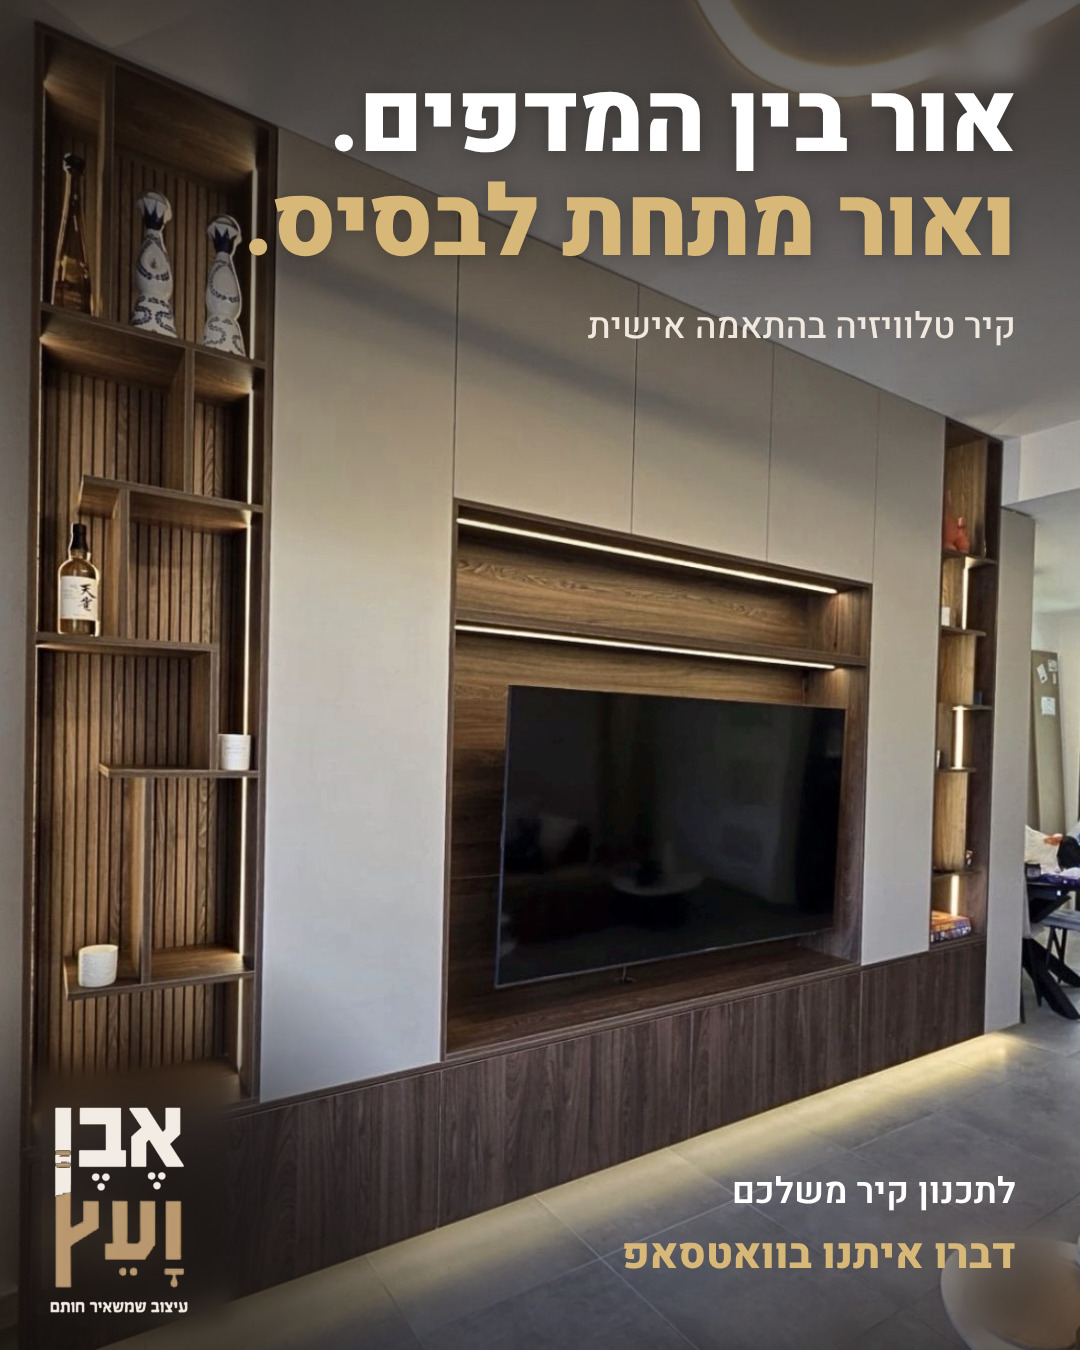
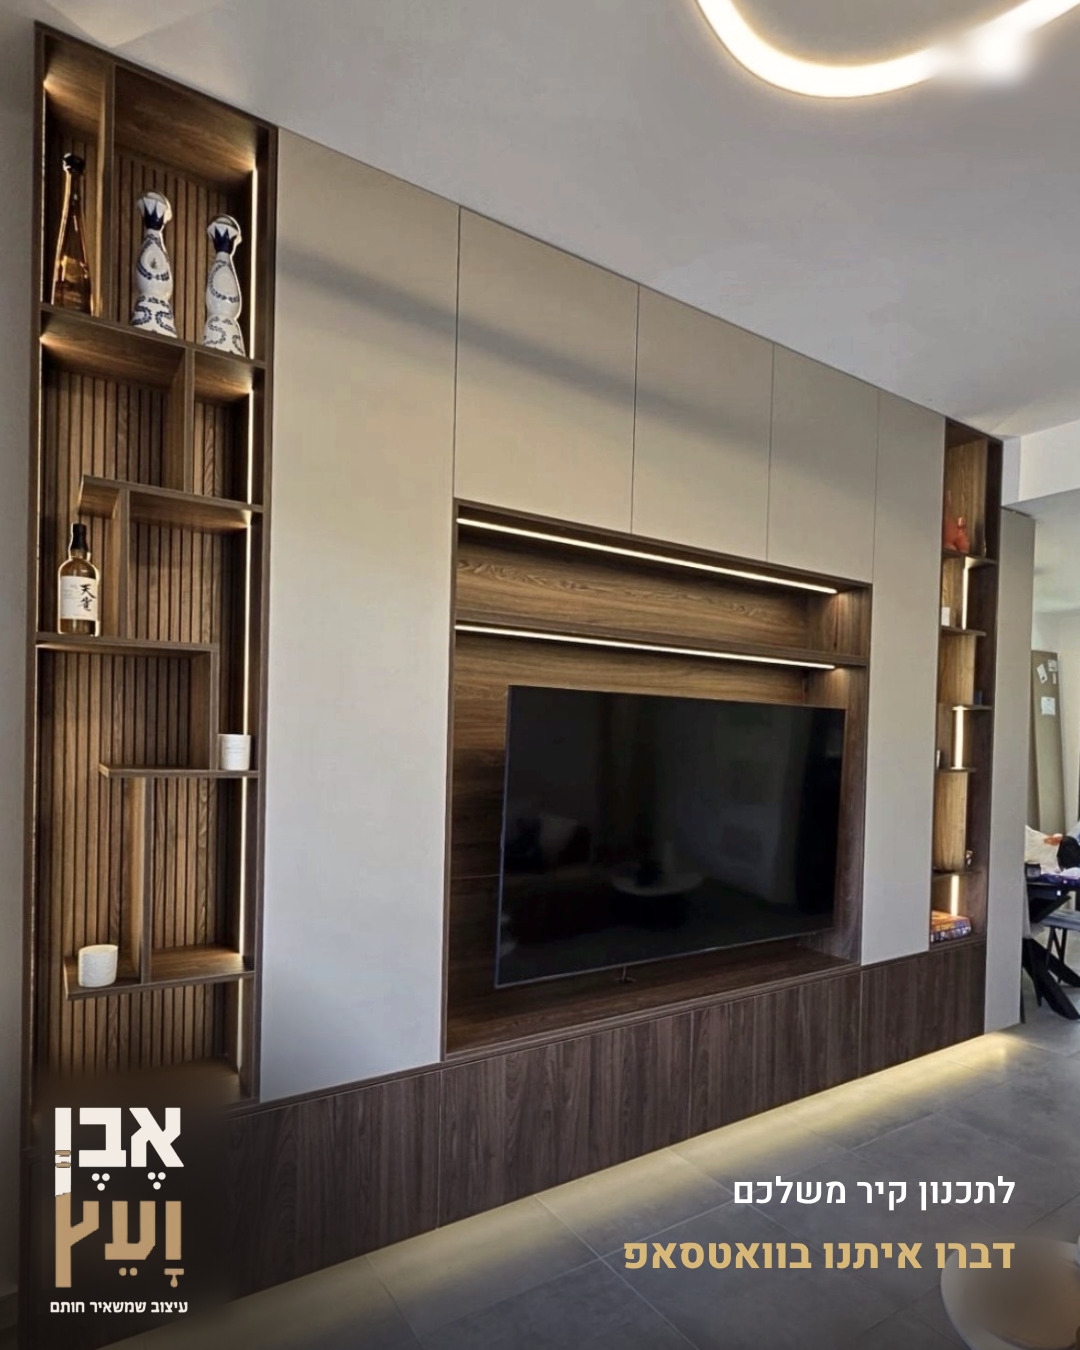
Calibrate: crops allowed when justified; one punch per post, quiet slides allowed; latte post lighter text
Claude-Session: https://claude.ai/code/session_01SxptKATtGTeS52fUeg3zyQ

Changed region(s): [[0.0, 0.0, 1.0, 0.3733]]

diff --git a/projects/2026-10-tv-wall/flow2/post2/slides.html b/projects/2026-10-tv-wall/flow2/post2/slides.html
@@ -34,15 +34,13 @@ body{width:1080px;font-family:"Heebo"}
 
 <section class="slide">
   <img class="full" src="open.png" alt="" /><div class="shade"></div><div class="foot"></div>
-  <div class="head"><div class="h1">מאחורי החזיתות,</div><div class="h2">עוד קיר של אחסון.</div>
-    <div class="sub">פתרונות אחסון נסתרים</div></div>
+  <div class="head"><div class="h1">מאחורי החזיתות,</div><div class="h2">עוד קיר של אחסון.</div></div>
   <div class="vig"></div><img class="logo" src="logo_light.png" alt="אבן ועץ" />
 </section>
 
 <section class="slide">
-  <img class="full" src="wide.png" alt="" /><div class="shade"></div><div class="foot"></div>
-  <div class="head"><div class="h1">אור בין המדפים.</div><div class="h2">ואור מתחת לבסיס.</div>
-    <div class="sub">קיר טלוויזיה בהתאמה אישית</div></div>
+  <img class="full" src="wide.png" alt="" /><div class="foot"></div>
+  
   <div class="vig"></div><img class="logo" src="logo_light.png" alt="אבן ועץ" />
   <div class="cta"><div class="a">לתכנון קיר משלכם</div><div class="b">דברו איתנו בוואטסאפ</div></div>
 </section>

diff --git a/agents/post-designer.md b/agents/post-designer.md
@@ -17,11 +17,16 @@
    - אצלה מופיעים רק: Hero מלא (רוב השקפים), שתי תמונות זו לצד זו במסגרת דקה על כהה (סגור/פתוח), ותוויות חומר על הצילום.
    - הקטלוג למטה נשאר רשימת אפשרויות לשימוש נדיר. **ברירת המחדל היא Hero מלא.**
 3. **חיתוכים:**
-   - העבודה כולה, או הפרט החשוב כולו. לא חותכים נישה, מסגרת או ארון באמצע.
+   - **ברירת מחדל:** העבודה כולה. לא חותכים נישה, מסגרת או ארון באמצע בלי סיבה.
+   - **חיתוך קרוב מותר, כשיש לו הצדקה אמיתית:** רוצים להבליט משהו, ויש פרט באמת מעניין להתמקד בו (נישה מוארת, חיבור, חומר). אז הפרט נכנס שלם וממלא את השקף. **לא חותכים "סתם".**
    - קווים ישרים, והמוצר ממלא את השקף.
    - אם סימני UI מפריעים, **מנקים אותם** (patch, טשטוש מתחת לשכבת התחתית, או הלוגו שלנו יושב מעליהם), ולא חותכים את העבודה.
 4. **בלי "מסגרת בתוך מסגרת", פסיפס או תקריבים רכים כברירת מחדל.** זה נתפס כהתחכמות.
 5. **הכותרת קשורה לתמונה הספציפית** (ראו `copywriter.md`, "כותרות על התמונה").
+6. **הפוסט הוא יחידה אחת.**
+   - **הפאנץ' צריך להיות בפוסט**, בדרך כלל בשער. **לא בכל שקף.**
+   - שאר השקפים יכולים להיות שקטים: בלי טקסט, או שורה קצרה אחת, או רק הלוגו והפנייה.
+   - **לא מעמיסים** כותרת, שורת משנה ופנייה על כל תמונה.
 
 ## דמות
 ארט-דיירקטור במשרד פרסום שמנהל פיד אינסטגרם של מותג עיצוב יוקרתי. הוא חושב על **הגריד כולו**, לא רק על הפוסט הבא. כל פוסט חייב:

diff --git a/knowledge/learning/preferences.md b/knowledge/learning/preferences.md
@@ -118,3 +118,7 @@
   - **ברירת המחדל:** השפה של הדוגמאות שלה (`post-designer.md`, תיקון v4; `copywriter.md`, "כותרות על התמונה").
 - **היא מבקשת: "כל הערה שלי נשמרת באופן קבוע בסקילים, כדי שלא אצטרך לחזור".** לכן כל משוב נרשם כאן ובקובץ הסוכן הרלוונטי באותו סבב, והמנכ"ל בודק מול הקובץ הזה בכל שער.
 - **מטא-לקח:** הדחיפה ל"גיוון" (18 ארכיטיפים) תוקנה יותר מדי לכיוון פריסות חכמות. **גיוון = רעיונות וכותרות שונים בתוך השפה שהיא אוהבת.**
+- **כיול (באותו סבב):**
+  - **חיתוך:** לא חייבים תמיד תמונות שלמות. חיתוך קרוב מותר **רק כשיש הצדקה**, כלומר רוצים להבליט פרט באמת מעניין.
+  - **טקסט:** לא בכל תמונה צריך משפט עם פאנץ'. הפוסט כולו צריך פאנץ', אבל לא הרבה טקסט על כל תמונה.
+  - **תיקון-יתר שנמנע:** "תמונות שלמות" ו"כותרת לכל תמונה" הם ברירת מחדל ולא חוק.

diff --git a/agents/ceo.md b/agents/ceo.md
@@ -29,7 +29,9 @@
 8. **מבחן 8 הדוגמאות (פוסטים):**
    - מניחים את השקף ליד `knowledge/inspiration/post-examples/ex1–8`. האם הוא נראה שייך לאותה סדרה באיכות, בפשטות ובקשר בין הכותרת לתמונה?
    - האם העבודה מוצגת **כולה וישרה**?
-   - פריסה "חכמה", חיתוך שחותך את העבודה, או כותרת שלא קשורה לתמונה = מוחזר.
+   - פריסה "חכמה", חיתוך שחותך את העבודה בלי הצדקה, או כותרת שלא קשורה לתמונה = מוחזר.
+   - **חיתוך קרוב עובר רק עם סיבה:** פרט מעניין שרוצים להבליט.
+   - **עומס טקסט:** כותרת עם פאנץ' בכל שקף = עומס. בפוסט צריך פאנץ' אחד, והשאר שקט.
 
 ## פסיקה
 - **מאושר:** עובר לשלב הבא.

diff --git a/agents/copywriter.md b/agents/copywriter.md
@@ -84,6 +84,9 @@
 | ארון חזיתי | שלילה | חיוב | "לא לפי תבנית. / לפי הבית שלכם." |
 
 **הכללים:**
+- **לא בכל שקף צריך משפט עם פאנץ'.**
+  - פוסט אחד = פאנץ' אחד חזק, בדרך כלל בשער.
+  - שאר השקפים: שורה קצרה ועניינית, או בלי טקסט.
 - **שורה 1 מתארת את מה שרואים בתמונה הזו**, ושורה 2 נותנת תפנית עדינה.
 - **מבנה מקביל, קצר מאוד:** 2–5 מילים לשורה.
 - **עברית תקנית.** חרוז רק אם הוא אמיתי בצליל.
